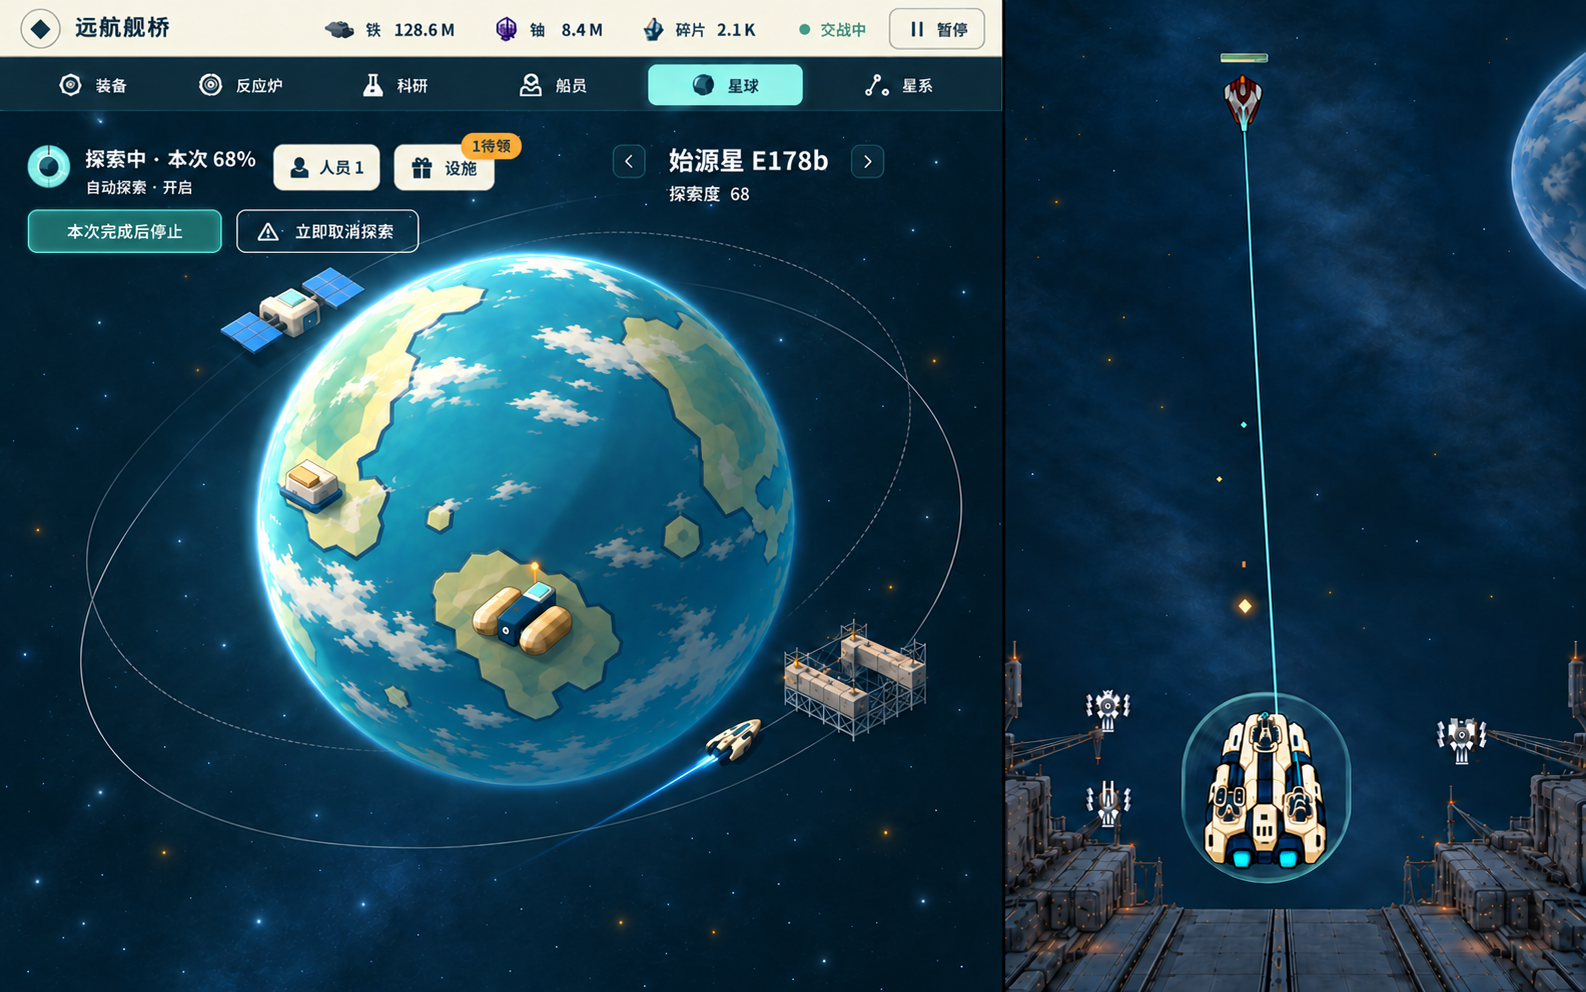
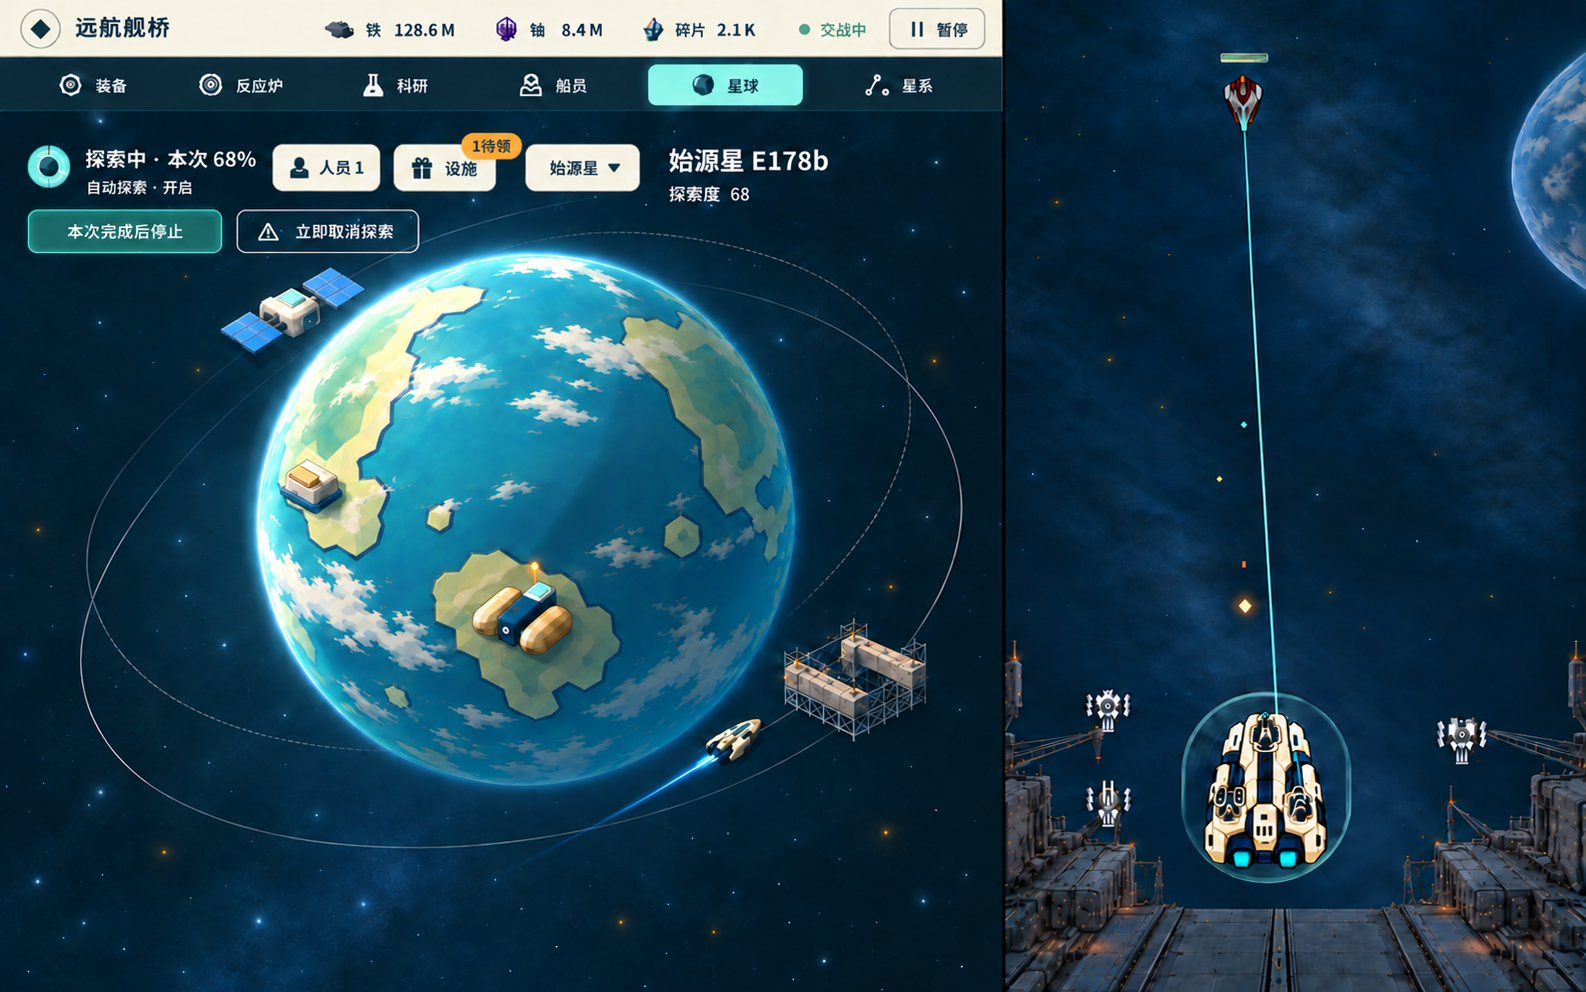
design: move planet selection into the left control cluster

diff --git a/space-battleship/docs/game-design/art/modules/planet.md b/space-battleship/docs/game-design/art/modules/planet.md
@@ -8,8 +8,8 @@
 
 **已定表现归属：** 空间站在轨道绕转，资源工厂（现有精炼厂）在星球表面。地表设施锚定同一地貌，随地表相位改变位置、朝向和球缘压缩，按前后关系逐步遮挡；底座贴地，不能以始终朝屏幕的漂浮图标冒充贴附。它们不随独立云相位漂移。工坊、船坞具体归属仍待确定；按功能的建议及当次构图放在候选说明，不作用户已选结论。这些是表现分工，不改变设施适用性、施工、人员、贡献或领取规则。
 
-**操作/读数：** 建筑只供观看和状态表现，不承担点击操作。探索状态、人员、自动设置及设施入口集中左侧同一紧凑操作簇，详情从同侧抽屉按需展开，右侧归还观看；展开时任务摘要及停止/取消仍保持可达。控制布局利用圆外余量并避让空间站、轨道物体和抵达路径，不先切走下方整片场景，不靠缩字硬塞。设施管理入口保持待领取提示可发现；不常驻大设施表，也不为收起的管理区留空。设施选择、门槛/施工/额外人员/收益、领取及累计 Buff/重铸入口在稳定控制区按当前对象组织，一次突出当前设施，不各套一张卡。对象在球缘、背侧或被遮挡不影响入口可达，也不要求追踪移动按钮。当前缺人/暂停或失败原因仍在相应上下文清楚可读，不能借收纳隐藏必要反馈；设施图标与模型身份相符。
+**操作/读数：** 建筑只供观看和状态表现，不承担点击操作。星球选择、探索状态、人员、自动设置及设施入口集中左侧同一紧凑操作簇，详情从同侧抽屉按需展开，右侧归还观看；若保留星球名称/探索度，仅作身份信息，不留切星箭头或操作。两态对象选择入口位置一致，展开时任务摘要及停止/取消仍保持可达。控制布局利用圆外余量并避让空间站、轨道物体和抵达路径，不先切走下方整片场景，不靠缩字硬塞。设施管理入口保持待领取提示可发现；不常驻大设施表，也不为收起的管理区留空。设施选择、门槛/施工/额外人员/收益、领取及累计 Buff/重铸入口在稳定控制区按当前对象组织，一次突出当前设施，不各套一张卡。对象在球缘、背侧或被遮挡不影响入口可达，也不要求追踪移动按钮。当前缺人/暂停或失败原因仍在相应上下文清楚可读，不能借收纳隐藏必要反馈；设施图标与模型身份相符。
 
 **状态/反馈：** 区分未达门槛、building、缺人暂停、ready 待领、已领取；达到探索门槛不等于立刻建成。关闭自动为“本次完成后停止”，立即取消为独立动作。探索完成、发现设施、施工推进、可领取及领取成功各有对应信息；动画只强调实际事件，不以漂浮模型冒充已拥有。切球清除上一星球短暂反馈，未领取设施不能显示已生效收益。重铸按 M10 的预览确认，不照搬旧入口直接执行。
 
-**可见验收 V7：** **画面核对：** 默认观看态与同侧抽屉展开态分别核对：探索/人员/设施入口集中左侧，右侧无分散操作区；星球/地表/轨道/探索机主导，控件紧凑、待领可发现，并按完整空间站/轨道/抵达运动包络避让。展开后任务摘要及停止/取消不被抽屉遮住，详情可操作且可收起，无常驻大表或空占位挤压场景，不先横切下方整片空间。地表设施随同一地貌转入/转出并在球缘压缩、遮挡，空间站与地表采用不同运动关系。无常驻探索/领取教学；当前任务、缺人/施工/待领状态在对应稳定上下文清楚可读，空闲/暂停不伪装推进。**操作核对：** 不点击建筑，从左侧待领入口打开同侧管理、选择设施、查看门槛/进度及补人，观察施工恢复；对象处于背侧时入口仍可用，展开时可读取任务并使用停止/取消，收起后空间归还观看。ready 后领取才显示实际所得与 Buff；分别关闭自动与立即取消，核对本次完成后停止和即时中止的区别。来源 S9。
+**可见验收 V7：** **画面核对：** 默认观看态与同侧抽屉展开态分别核对：星球选择/探索/人员/设施入口集中左侧，右侧无切星或其他分散操作区；星球/地表/轨道/探索机主导，控件紧凑、待领可发现，并按完整空间站/轨道/抵达运动包络避让。展开后任务摘要及停止/取消不被抽屉遮住，详情可操作且可收起，无常驻大表或空占位挤压场景，不先横切下方整片空间。地表设施随同一地貌转入/转出并在球缘压缩、遮挡，空间站与地表采用不同运动关系。无常驻探索/领取教学；当前任务、缺人/施工/待领状态在对应稳定上下文清楚可读，空闲/暂停不伪装推进。**操作核对：** 不点击建筑，从左侧选择星球及待领入口打开同侧管理、选择设施、查看门槛/进度及补人，观察施工恢复；对象处于背侧时入口仍可用，两态选择器位置一致，展开时可读取任务并使用停止/取消，收起后空间归还观看。ready 后领取才显示实际所得与 Buff；分别关闭自动与立即取消，核对本次完成后停止和即时中止的区别。来源 S9。

diff --git a/space-battleship/docs/ui-redesign-plan/planet-single-side-v5/review-notes.md b/space-battleship/docs/ui-redesign-plan/planet-single-side-v5/review-notes.md
@@ -8,11 +8,12 @@
 - 地表/轨道分工和模型身份沿[P3分析](../planet-surface-orbit-v3/direction-and-routes.md)，不重画/修改原GLB、纹理、Facility/Motion原点。工坊/船坞归属建议未升级为用户已选。
 - [03 §5](../../game-design/03-progression.md#5-星球探索与建筑)与09af963c既有候选事实/命令边界不变：精炼厂领取后作用于铁铀原生掉落，图内不假造倍率或收入预测。布局/开合是前端状态，无新人员账本/位置业务字段。
 
-三次图像输出均实际查看。第二次展开图向右挪了空间站，第三次只集中要求恢复参照站位/略收抽屉；修正后仍有站位漂移，作为未解决图像限制保留，不重复微调或冒称通过。首次展开图留drafts作来源。全部原始PNG/提示词/引用路径及SHA-256入Git，无额外压缩或后期改图。
+最初三次图像输出均实际查看：第二次展开图挪了空间站，第三次只校正站位/抽屉，残留站位漂移仍保留为限制。本次在根线程/独审认可集中方向后，仅对两态各调用一次imagegen，将切星并入左簇、删去右箭头；未扩新方向。原两图和首次展开图均留drafts作来源。累计五次原始PNG/提示词/引用路径及SHA-256入Git，无额外压缩或后期改图。
 
 ## 可见控制关系
 
-- 默认图内探索摘要、人员1、设施/1待领在左上同组，停止/取消在其下；原右侧设施入口消失。星球名称/探索度只作球体上方身份信息，不是第二个操作区。
+- 默认图内探索摘要、人员1、设施/1待领及“始源星▾”选择器在左上同组，停止/取消在其下；原右侧设施入口和两枚切星箭头均消失。星球名称/探索度只作球体上方身份信息，不是第二个操作区。
+- 两态选择器均位于设施入口之后的同一首排槽位，正文/按钮未整体缩字，底栏与主体未重做；图像像素位置/宽度仍有数像素漂移，不能替代运行布局的精确对齐。
 - 两态任务及停止/取消保持同一上方位置，展开抽屉顶部与这排按钮底部有约18原生像素间隔，未盖住按钮/任务。人员和设施入口仍可见；无需关闭管理才能停止/取消。
 - 抽屉只选择精炼厂，合并待领态，显示领取后作用、领取及更多；没有再铺四设施表/禁用大块，也不要求点击场景建筑。开合不表示暂停、时间推进或领取。
 - 右侧及下缘保持连续观看空间，无额外操作框或常驻预留。图像的文字/图标可能有生成细节错误，普通控件的真实焦点、命中与返回仍未实现。
@@ -24,6 +25,6 @@
 3. 站体在展开图仍相对默认图向右偏移数十原生像素，尝试一次校正未完全恢复。因此该图不能证明按P4原站位的遮挡比例，也不能称世界坐标/姿态完全未变。其他局部细节亦可能漂移；不据生成图改动实际轨道来消除风险。
 4. 图像非旧shader/模型/轨道坐标的真实渲染。完整站体公转、自身姿态、探索机抵达/绕行以及实际点击扩展范围都未运行验证，不能以源码或当前静帧代替同候选动态证据。
 
-两图均1586×992，模块分界约x1002，映射至1440宽约910px；808仍是待确认工作目标。默认操作簇约x28–522/y133–253，抽屉约280×302原生像素，均比最初预算宽。应按808工作宽度保留可读字体重新排按钮/换行及锚点，不把当前原图整体缩小。图稿交原独审判断集中效果、观景主次和遮盖是否可接受。
+两图均1586×992，模块分界约x1002，映射至1440宽约910px；808仍是待确认工作目标。默认操作簇补入选择器后约x28–640/y133–253，抽屉约280×302原生像素，均比最初预算宽。选择器默认约x526–640/y145–191，展开约x528–636/y148–191，逻辑槽位相同但不是像素精确复现。应按808工作宽度保留可读字体重新排按钮/换行及锚点，不把当前原图整体缩小。图稿交原独审判断集中效果、观景主次和遮盖是否可接受。
 
 无UI/业务/配置/模型改动，无共用13改动，无HTML/SVG、B实现、基准或独立复测，无main合并。文档链接/JSON/原图字节校验不构成交互或V0/V7验收。

diff --git a/space-battleship/docs/ui-redesign-plan/planet-single-side-v5/README.md b/space-battleship/docs/ui-redesign-plan/planet-single-side-v5/README.md
@@ -8,10 +8,10 @@
 
 ![左侧抽屉展开态](left-drawer.png)
 
-探索摘要、人员、设施/待领入口与停止/取消收在左上同一操作簇；右侧原设施入口移除，归还观看。常用控制重新分行，星球名称/探索度移至球体上方余量。左侧抽屉在操作簇下方展开，摘要与停止/取消不被盖住，保留精炼厂作用、领取及低权重更多入口；不恢复大表或底栏。
+星球选择、探索摘要、人员、设施/待领入口与停止/取消收在左上同一操作簇；右侧原设施入口和两枚切星箭头均移除，名称/探索度只作身份信息。选择器在两态的同一操作排位置，抽屉不遮它或停止/取消。左侧抽屉保留精炼厂作用、领取及低权重更多入口，不恢复大表或底栏。
 
 沿用同一D68、本次68%、探索者1人及自动开启样例，未推进或领取。空间站轨道、精炼厂贴地、建筑仅观看/操作独立的已定分工保持；工坊贴地、船坞近轨仍是建议。P4观看资产/构图为参照，不宣称生成图逐像素保持原世界。
 
-本轮三次image_gen：默认、展开、一次集中校正展开图的站体位置/抽屉宽度。原始PNG未经额外压缩、缩放、裁切或拼接。两张候选均1586×992，分区仍映射约910而非808；控制簇和抽屉也宽于最初预算，808下需保留字号重排，不能整体缩图。
+P5最初三次image_gen完成默认/展开及一次站体/抽屉校正；本次仅新增两态的对象选择最小修订，原两图留drafts作为输入。累计五次，原始PNG未经额外压缩、缩放、裁切或拼接。两张候选均1586×992，分区仍映射约910而非808；控制簇和抽屉也宽于最初预算，808下需保留字号重排，不能整体缩图。新选择器处于两态同一逻辑位置，生成像素仍有数像素差异，不记精确对齐通过。
 
 **净空待审：** 默认站体未压在常用按钮上，但取消按钮靠近轨道上沿；完整运动/抵达包络未验证。展开抽屉允许临时遮部分站体/左球缘，常用控制保持可达。一次修正后站体相对默认图仍有向右生成漂移，不能据此证明原站体的真实遮挡或精确同状态复现。详见自查，不宣称V0/V7通过。

diff --git a/space-battleship/docs/ui-redesign-plan/planet-single-side-v5/layout-and-clearance.md b/space-battleship/docs/ui-redesign-plan/planet-single-side-v5/layout-and-clearance.md
@@ -8,7 +8,7 @@ P4左列已靠近轨道弧，将设施按钮继续堆在取消按钮下，会向
 
 工作条件仍为待确认的1440×900整窗、808×900模块，不能把P4映射约910px的原图整体压缩充当808适配。字号/按钮留用可读层级，按内容换行和重排；尺寸仅是图稿目标，工具偏差单列。
 
-初拟操作簇位于模块左上、全局导航之下，约x20–350/y120–205。第一行是两行以内任务摘要（探索中/本次68%、自动开启）、人员1和设施/待领入口；第二行独立摆本次完成后停止与立即取消。所有常用操作在一个视觉/鼠标区域，人员与设施入口不用跨球寻找。星球名称/探索度可移到球体上方余量，属于信息布局，不改观看主体。
+初拟操作簇位于模块左上、全局导航之下，约x20–350/y120–205。第一行是两行以内任务摘要（探索中/本次68%、自动开启）、人员1和设施/待领入口；第二行独立摆本次完成后停止与立即取消。所有常用操作在一个视觉/鼠标区域，人员与设施入口不用跨球寻找。方向核对后补入同组的紧凑星球选择器，两态使用同一入口位置；星球名称/探索度在球体上方仅作身份，不再保留右侧切星箭头。生成后实际操作簇比初拟更宽，808下仍需保留字号重排；不改观看主体来塞控件。
 
 ## 默认观看态
 
